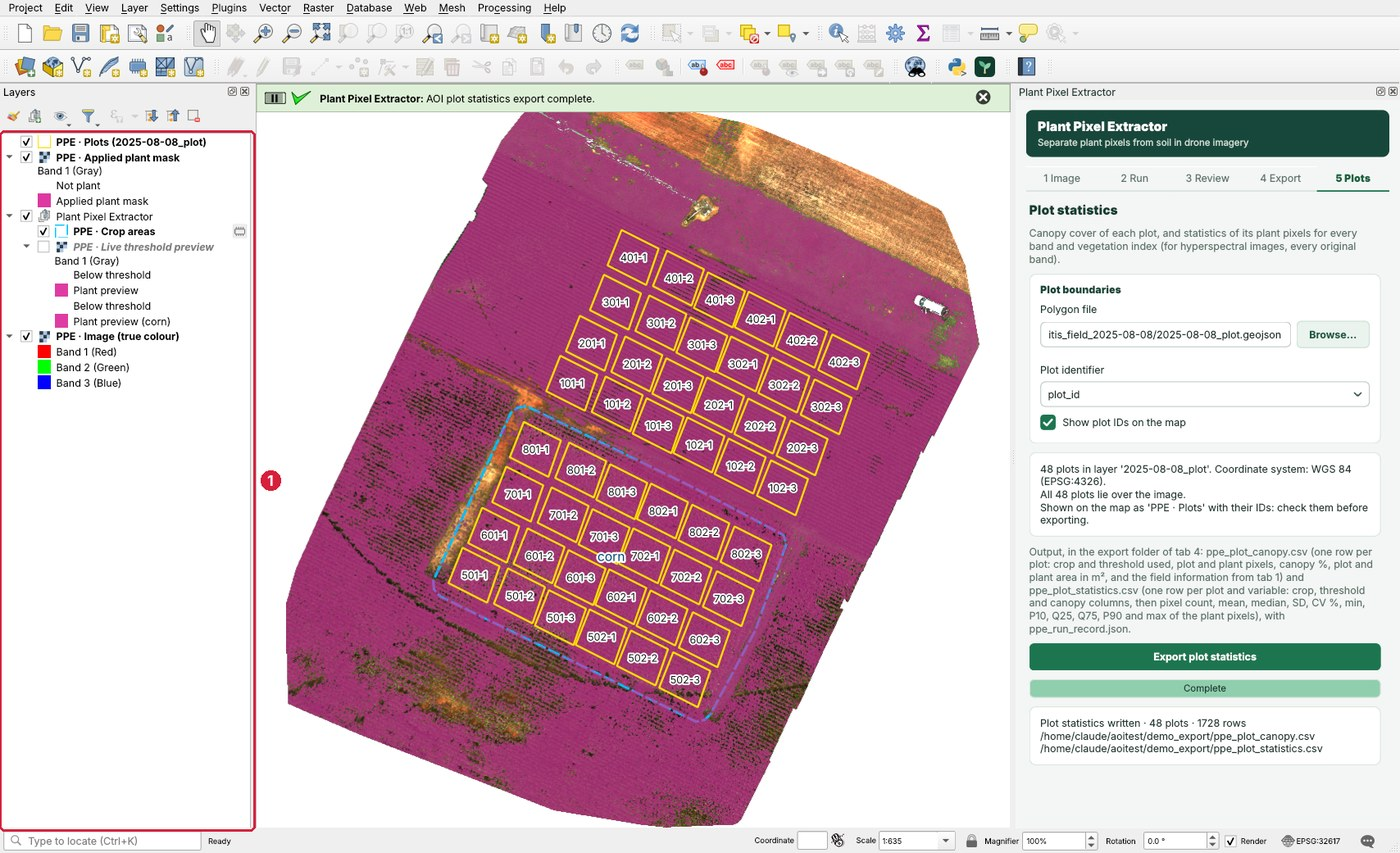
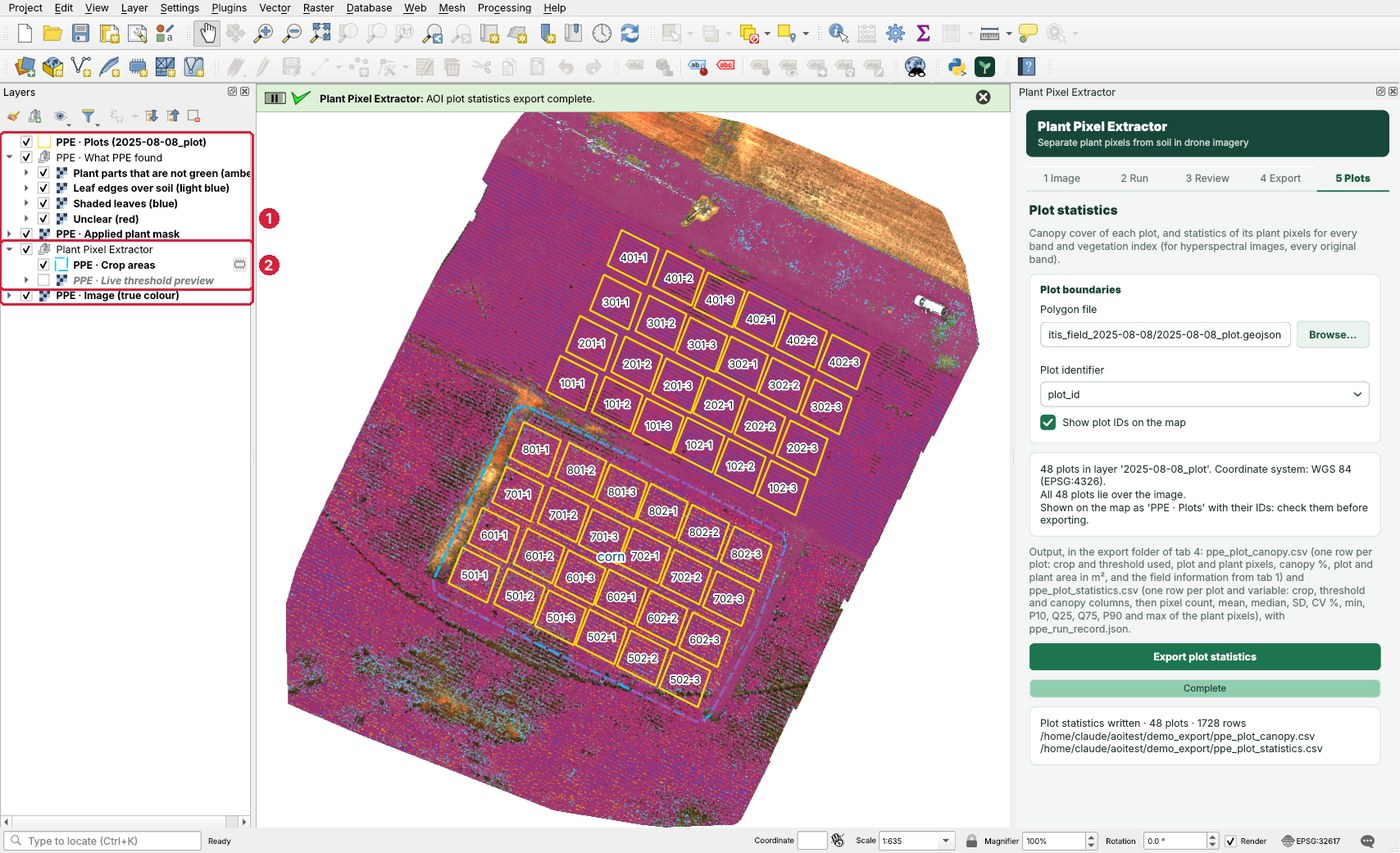
What PPE found: one layer per kind on the map; PPE layers come in folded
- Show them on the map adds a group with one layer per kind (amber, light blue, blue, red), all reading
  the same findings file, so each kind can be switched on and off on its own
- The card shows each kind's colour; the layer names say it too
- Deleting one kind keeps the others; deleting the last removes the group and resets the button
- PPE's layers come into the Layers panel with their legends folded
- README screenshots updated

diff --git a/ppe_qgis/layer_utils.py b/ppe_qgis/layer_utils.py
@@ -8,6 +8,7 @@ from osgeo import gdal, osr
 from qgis.PyQt.QtGui import QColor
 from qgis.core import (
     Qgis,
+    QgsPalettedRasterRenderer,
     QgsColorRampShader,
     QgsFillSymbol,
     QgsLayerTreeGroup,
@@ -112,7 +113,9 @@ def _project_group():
 
 def _node_role(node):
     if isinstance(node, QgsLayerTreeGroup):
-        return "__group__" if node.name() == GROUP_NAME else None
+        if node.name() == GROUP_NAME and not node.customProperty(ROLE_KEY, ""):
+            return "__group__"
+        return node.customProperty(ROLE_KEY, "") or None    # PPE's own sub-groups (What PPE found)
     layer = node.layer() if hasattr(node, "layer") else None
     return layer.customProperty(ROLE_KEY, "") if layer is not None else None
 
@@ -125,6 +128,9 @@ def arrange_layers():
     """Put PPE's own layers in order (TOP_ORDER, then GROUP_ORDER inside the group). The user's
     layers keep their places: PPE's top-level layers are gathered where the first of them is."""
     root = QgsProject.instance().layerTreeRoot()
+    for node in list(root.children()):          # a PPE sub-group whose layers are all gone
+        if isinstance(node, QgsLayerTreeGroup) and node.customProperty(ROLE_KEY, "") and not node.children():
+            root.removeChildNode(node)
     group = root.findGroup(GROUP_NAME)
     if group is not None:
         if not group.children():
@@ -145,16 +151,21 @@ def arrange_layers():
             _move(root, node, target)
 
 
-def place_layer(layer, role, visible=True):
-    """Add a layer PPE made to the project at its place (see TOP_ORDER)."""
+def place_layer(layer, role, visible=True, parent=None):
+    """Add a layer PPE made to the project at its place (see TOP_ORDER). Its legend starts
+    folded, so the Layers panel stays short; the arrow beside it opens it."""
     layer.setCustomProperty(ROLE_KEY, role)
     QgsProject.instance().addMapLayer(layer, False)
     root = QgsProject.instance().layerTreeRoot()
-    (_project_group() if role in GROUP_ORDER else root).insertLayer(0, layer)
+    if parent is not None:
+        parent.addLayer(layer)
+    else:
+        (_project_group() if role in GROUP_ORDER else root).insertLayer(0, layer)
     arrange_layers()
     node = root.findLayer(layer.id())
     if node is not None:
         node.setItemVisibilityChecked(visible)
+        node.setExpanded(False)
     return layer
 
 
@@ -486,26 +497,44 @@ def _raise_role(role):
 PALE_LAYER_NAME = "PPE · What PPE found"
 FINDING_COLOURS = ((1, (255, 176, 0), "Plant parts that are not green"), (2, (90, 205, 255), "Leaf edges over soil"),
                    (3, (40, 80, 230), "Shaded leaves"), (4, (240, 50, 90), "Unclear"))
+FINDING_COLOUR_NAMES = {1: "amber", 2: "light blue", 3: "blue", 4: "red"}
 
 
-def show_pale_plant(path, visible=True):
-    """Add (or remove) the 'What PPE found' layer: one colour per kind, clear elsewhere.
-    Information only; it is not part of the mask."""
+def _pale_group(create=True):
+    root = QgsProject.instance().layerTreeRoot()
+    for node in root.children():
+        if isinstance(node, QgsLayerTreeGroup) and node.customProperty(ROLE_KEY, "") == "pale":
+            return node
+    if not create:
+        return None
+    group = root.insertGroup(0, PALE_LAYER_NAME)
+    group.setCustomProperty(ROLE_KEY, "pale")
+    return group
+
+
+def show_pale_plant(path, visible=True, kinds=None):
+    """Add (or remove) 'What PPE found': a group with one layer per kind, each in its own colour
+    and clear elsewhere, so each kind can be switched on and off on its own. All the layers read
+    the same file. Information only; it is not part of the mask.
+    kinds: [(code, [codes drawn]), ...] to show; by default every kind."""
     remove_role("pale")
-    if not visible:
+    if not visible or not path or not os.path.isfile(path):
         return None
-    layer = _add_raster(path, PALE_LAYER_NAME, "pale", _project_group(), True)
-    if layer is None:
-        return None
-    _force_nearest(layer)
-    ramp = QgsColorRampShader()
-    ramp.setColorRampType(QgsColorRampShader.Exact)
-    items = [QgsColorRampShader.ColorRampItem(0, QColor(0, 0, 0, 0), "Nothing to point out")]
-    items += [QgsColorRampShader.ColorRampItem(code, QColor(*rgb, 245), name) for code, rgb, name in FINDING_COLOURS]
-    items.append(QgsColorRampShader.ColorRampItem(255, QColor(0, 0, 0, 0), "No data"))
-    ramp.setColorRampItemList(items)
-    shader = QgsRasterShader(); shader.setRasterShaderFunction(ramp)
-    renderer = QgsSingleBandPseudoColorRenderer(layer.dataProvider(), 1, shader)
-    layer.setRenderer(renderer); layer.triggerRepaint()
-    _raise_role("crops"); raise_plot_layer()
-    return layer
+    colours = {code: (rgb, name) for code, rgb, name in FINDING_COLOURS}
+    kinds = kinds if kinds is not None else [(code, [code]) for code in colours]
+    layers = []
+    for code, codes in kinds:
+        rgb, name = colours[code]
+        # the colour is in the name: a folded layer shows no colour square in the Layers panel
+        layer = QgsRasterLayer(path, "{} ({})".format(name, FINDING_COLOUR_NAMES[code]), "gdal")
+        if not layer.isValid():
+            continue
+        _force_nearest(layer)
+        classes = [QgsPalettedRasterRenderer.Class(c, QColor(*rgb, 245), name) for c in codes]
+        layer.setRenderer(QgsPalettedRasterRenderer(layer.dataProvider(), 1, classes))
+        layers.append(place_layer(layer, "pale", True, parent=_pale_group()))
+    group = _pale_group(create=False)
+    if group is not None:
+        group.setExpanded(True)                  # the kinds stay listed: each has its own tick box
+    arrange_layers()
+    return layers[0] if layers else None

diff --git a/ppe_qgis/dock.py b/ppe_qgis/dock.py
@@ -41,7 +41,7 @@ from .band_dialog import BandFilesDialog
 from .plant_parts import likely_parts
 from .native_engine import finding_shares
 from .crop_tools import PolygonDrawTool, show_crop_areas, to_crs
-from .layer_utils import canopy_at, load_plot_layer, plot_layer, remove_role, set_plot_labels
+from .layer_utils import FINDING_COLOURS, canopy_at, load_plot_layer, plot_layer, remove_role, set_plot_labels
 from .native_engine import (BAND_LABELS, PLOT_FILE_FILTER, dataset_wavelengths, describe_image, display_channels,
                             guess_plot_id_field, open_plot_file, plots_over_image, scan_band_folder)
 
@@ -1380,7 +1380,7 @@ class PPEDockWidget(QDockWidget):
         self.finding_rows = {}
         for code in (1, 2, 3, 4):
             holder = QWidget(); line = QVBoxLayout(holder); line.setContentsMargins(0, 0, 0, 0); line.setSpacing(2)
-            title = QLabel(""); title.setObjectName("findingTitle"); title.setWordWrap(True)
+            title = QLabel(""); title.setObjectName("findingTitle"); title.setWordWrap(True); title.setTextFormat(Qt.RichText)
             note = QLabel(""); note.setObjectName("paleText"); note.setWordWrap(True)
             clip = QCheckBox("Leave out of the mask")
             clip.toggled.connect(lambda on, code=code: self._clip_toggled(code, on))
@@ -1435,6 +1435,16 @@ class PPEDockWidget(QDockWidget):
         if self._early_stage():
             shares[2] += shares[1]; shares[1] = 0.0
         return shares
+
+    def finding_kinds(self):
+        """The kinds listed on the card, for the map: [(code, [codes drawn])]. Early in the season
+        plant parts are counted as leaf edges, so the leaf-edge layer draws both."""
+        early = self._early_stage(); kinds = []
+        for code, row in self.finding_rows.items():
+            if row["holder"].isHidden() or (early and code == 1):
+                continue
+            kinds.append((code, [1, 2] if (early and code == 2) else [code]))
+        return kinds
 
     def clip_codes(self):
         """Finding codes left out of the mask (leaf edges include plant parts early in the season)."""
@@ -1505,7 +1515,10 @@ class PPEDockWidget(QDockWidget):
             row["holder"].setVisible(visible)
             if visible:
                 mark, name, note = self.FINDING_TEXT[code]
-                row["title"].setText("{}  {} — {:.1f} % of the plant".format(mark, name, share))
+                rgb = {c: col for c, col, _n in FINDING_COLOURS}[code]
+                # the square has the colour of this kind on the map (Show them on the map)
+                row["title"].setText('<span style="color:#{:02x}{:02x}{:02x}; font-size:15px;">■</span>&nbsp;{}&nbsp;&nbsp;{} — {:.1f} % of the plant'.format(
+                    rgb[0], rgb[1], rgb[2], mark, name, share))
                 row["note"].setText(note.format(parts=parts))
                 shown.append(name)
         if not shown:

diff --git a/ppe_qgis/plugin.py b/ppe_qgis/plugin.py
@@ -11,6 +11,7 @@ from qgis.core import Qgis, QgsProject
 
 from .dock import PPEDockWidget
 from .layer_utils import (
+    arrange_layers,
     set_layer_visible,
     load_result_layers,
     load_import_layer,
@@ -140,7 +141,7 @@ class PPEPlugin:
     def _pale_layer_toggled(self, on):
         path = (self.dock.result or {}).get("pale_plant_path", "") if self.dock else ""
         with self._own_changes():
-            layer = show_pale_plant(path, on)
+            layer = show_pale_plant(path, on, self.dock.finding_kinds())
         if on and layer is None:
             self.dock.pale_layer_removed()
         self.iface.mapCanvas().refresh()
@@ -149,10 +150,10 @@ class PPEPlugin:
         """Something removed layers from the project. When it was the user and it was a PPE
         layer, bring the panel in line with what is still on the map."""
         if self.dock is not None and not self._removing:
-            for layer_id in layer_ids:
-                layer = QgsProject.instance().mapLayer(layer_id)
-                if layer is not None and layer.customProperty(ROLE_KEY, "") == "pale":
-                    self.dock.pale_layer_removed()
+            # What PPE found is one layer per kind: the button follows only when the last one goes
+            pale = [l.id() for l in QgsProject.instance().mapLayers().values() if l.customProperty(ROLE_KEY, "") == "pale"]
+            if pale and all(i in layer_ids for i in pale):
+                self.dock.pale_layer_removed()
         if self._removing or self.dock is None:
             return
         known = self._layer_ids()
@@ -171,6 +172,9 @@ class PPEPlugin:
             self.dock.mask_layers_removed(True)
 
     def _layers_removed(self, _layer_ids):
+        if not self._removing:
+            with self._own_changes():
+                arrange_layers()          # e.g. the What PPE found group once its last kind is deleted
         if self._image_removed and not self._removing:
             self._image_removed = False
             self._image_layer_gone()

diff --git a/ppe_qgis/README.md b/ppe_qgis/README.md
@@ -55,7 +55,7 @@ As soon as an image is chosen it is added to the map, before anything is analyse
 
 Run then adds the plant vote on top of the same picture (the live preview), and Finalize adds the applied plant mask.
 
-**In the Layers panel** the results are layers of their own; only the working layers sit in the *Plant Pixel Extractor* group. From top to bottom: *PPE · Plots*, *PPE · What PPE found* (when shown), *PPE · Applied plant mask*, the *Plant Pixel Extractor* group (*PPE · Crop areas*, *PPE · Live threshold preview*), and the image. Your own layers keep their places. PPE adds nothing else to the Layers panel: the rasters showing which pixels each guard removed (shadows, algae, bright soil) stay in the run folder (`ppe_YYYYMMDD_HHMMSS` inside the working folder set under Folders) for anyone who wants to inspect them.
+**In the Layers panel** the results are layers of their own; only the working layers sit in the *Plant Pixel Extractor* group. From top to bottom: *PPE · Plots*, the *PPE · What PPE found* group (one layer per kind, when shown), *PPE · Applied plant mask*, the *Plant Pixel Extractor* group (*PPE · Crop areas*, *PPE · Live threshold preview*), and the image. PPE's layers come in folded, so the panel stays short; the arrow beside a layer shows its legend. Your own layers keep their places. PPE adds nothing else to the Layers panel: the rasters showing which pixels each guard removed (shadows, algae, bright soil) stay in the run folder (`ppe_YYYYMMDD_HHMMSS` inside the working folder set under Folders) for anyone who wants to inspect them.
 
 On tab **5 Plots**, the chosen plot file is added as **PPE · Plots**: yellow outlines with each plot's ID, kept above the image. Untick *Show plot IDs on the map* to hide the labels, untick the layer in the Layers panel to hide the plots, or restyle it there like any QGIS layer.
 
@@ -81,7 +81,7 @@ Every run sorts out four kinds of pixel worth pointing out. Nothing is guessed f
 | ● Shaded leaves | less than half as bright as a typical leaf, but more near-infrared light than bare soil in full sun can reflect | leaves under the top of the canopy: plant |
 | ? Unclear | as dark, but no more near-infrared light than soil in sun | could be a leaf in deep shade or soil in shade |
 
-On tab **3 Review** a closed card, *What PPE found: n things to look at*, opens to one short note per kind present (from 0.2 % of the plant). Each has **Leave out of the mask**: one tick writes the mask at once (finalizing it if needed, to a file of its own such as `ppe_plant_mask_0.45_without_shaded.tif`) and you stay on the Review tab. The card then reports how many pixels were taken out and the canopy before and after, and the live preview is switched off so the map shows the mask itself (moving a slider shows it again). Unticked, or **Put all back**, they return. The mask is always rebuilt from the vote, so leaving out and putting back loses nothing. **Show them on the map** adds *PPE · What PPE found* with one colour per kind.
+On tab **3 Review** a closed card, *What PPE found: n things to look at*, opens to one short note per kind present (from 0.2 % of the plant). Each has **Leave out of the mask**: one tick writes the mask at once (finalizing it if needed, to a file of its own such as `ppe_plant_mask_0.45_without_shaded.tif`) and you stay on the Review tab. The card then reports how many pixels were taken out and the canopy before and after, and the live preview is switched off so the map shows the mask itself (moving a slider shows it again). Unticked, or **Put all back**, they return. The mask is always rebuilt from the vote, so leaving out and putting back loses nothing. **Show them on the map** adds a group, *PPE · What PPE found*, with one layer per kind in its own colour (plant parts amber, leaf edges light blue, shaded leaves blue, unclear red; the coloured square on the card is the same colour). Tick or untick each kind on its own; all four layers read the same file.
 
 - The plot export gives each kind's share of every plot (`plant_parts_pct`, `leaf_edges_pct`, `shaded_leaves_pct`, `unclear_pct`, percent of the plot whatever the threshold) and `left_out_of_mask`; the run record keeps the shares and what was left out.
 - Early in the season (*Early / vegetative* under *About this field*) pale spots are counted as leaf edges.

diff --git a/README.md b/README.md
@@ -142,8 +142,15 @@ After each run PPE sorts out four kinds of pixel worth a look. Each is judged fr
 ![What PPE found](docs/images/10_what_ppe_found.jpg)
 
 1. Open the closed card **What PPE found: n things to look at**.
-2. Each kind present shows its share of the plant and one plain sentence.
-3. **Show them on the map** adds *PPE · What PPE found*: plant parts amber, leaf edges light blue, shaded leaves blue, unclear red. Here, the tassels lie along the corn rows.
+2. Each kind present shows its share of the plant and one plain sentence. The coloured square is its colour on the map.
+3. **Show them on the map** adds a group, *PPE · What PPE found*, with **one layer per kind**:
+   - *Plant parts that are not green (amber)*;
+   - *Leaf edges over soil (light blue)*;
+   - *Shaded leaves (blue)*;
+   - *Unclear (red)*.
+
+   Tick or untick each kind to see it alone or compare it with the others. All four layers read the same file, so this costs no disk space.
+4. Here, the tassels lie along the corn rows.
 
 **Leave a kind out of the mask, or put it back, with one click:**
 
@@ -214,12 +221,12 @@ plot_id,crop,threshold,plot_pixels,plant_pixels,canopy_pct,plot_area_m2,plant_ar
 
 1. PPE's results are layers of their own, kept in this order from the top:
    - **PPE · Plots**;
-   - **PPE · What PPE found** (when shown);
+   - the **PPE · What PPE found** group, with one layer per kind (when shown);
    - **PPE · Applied plant mask**;
-   - the **Plant Pixel Extractor** group, holding only the working layers (*Crop areas*, *Live threshold preview*);
    - **PPE · Image**.
+2. The **Plant Pixel Extractor** group holds only the working layers: *Crop areas* and *Live threshold preview*.
 
-   Your own layers keep their places. Removing the PPE image layer resets PPE; removing the live preview switches the slider off until the next run. Every layer can be restyled like any QGIS layer.
+PPE's layers come in **folded**, so the panel stays short; the arrow beside a layer shows its legend. Your own layers keep their places. Removing the PPE image layer resets PPE; removing the live preview switches the slider off until the next run. Every layer can be restyled like any QGIS layer.
 
 ## 12. Files PPE writes
 
